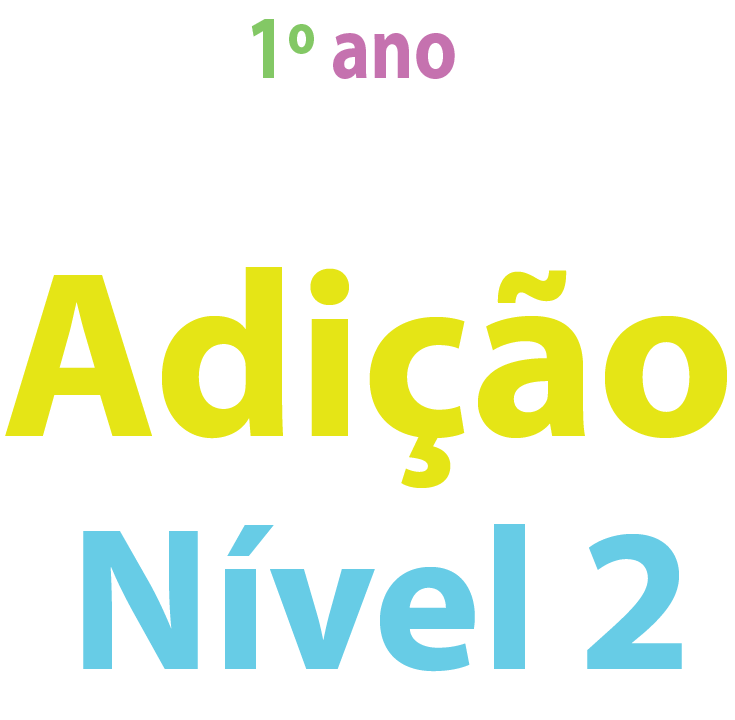
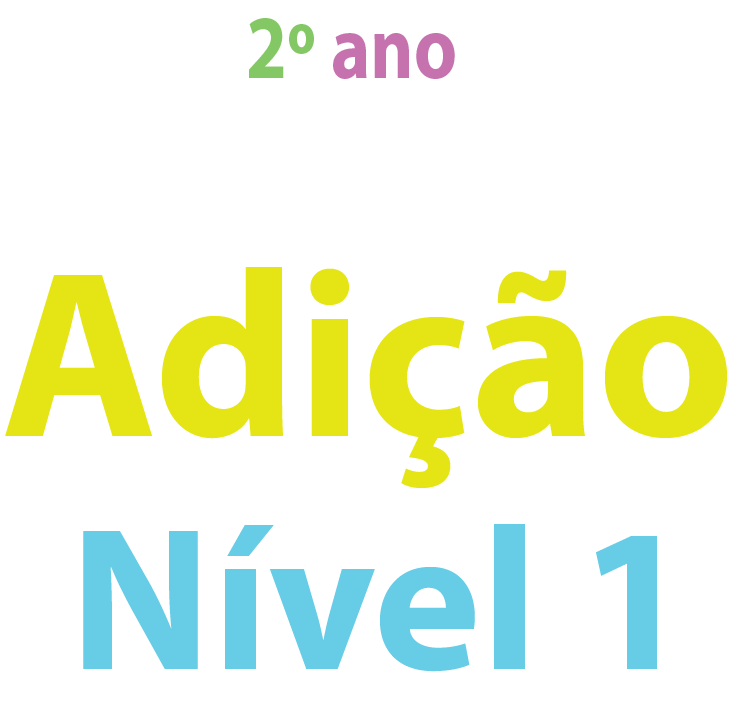
feat: img + title

Changed region(s): [[0.7782, 0.7333, 0.9279, 0.9472], [0.3293, 0.0306, 0.3891, 0.1222]]

diff --git a/index.html b/index.html
@@ -4,7 +4,7 @@
 <head>
   <meta charset="UTF-8">
   <meta name="viewport" content="width=device-width, initial-scale=1.0">
-  <title>Adição nivel 2</title>
+  <title>Adição nivel 1</title>
 
   <link rel="shortcut icon" href="./favicon.ico" />
   <!-- Chrome, Firefox OS and Opera -->
